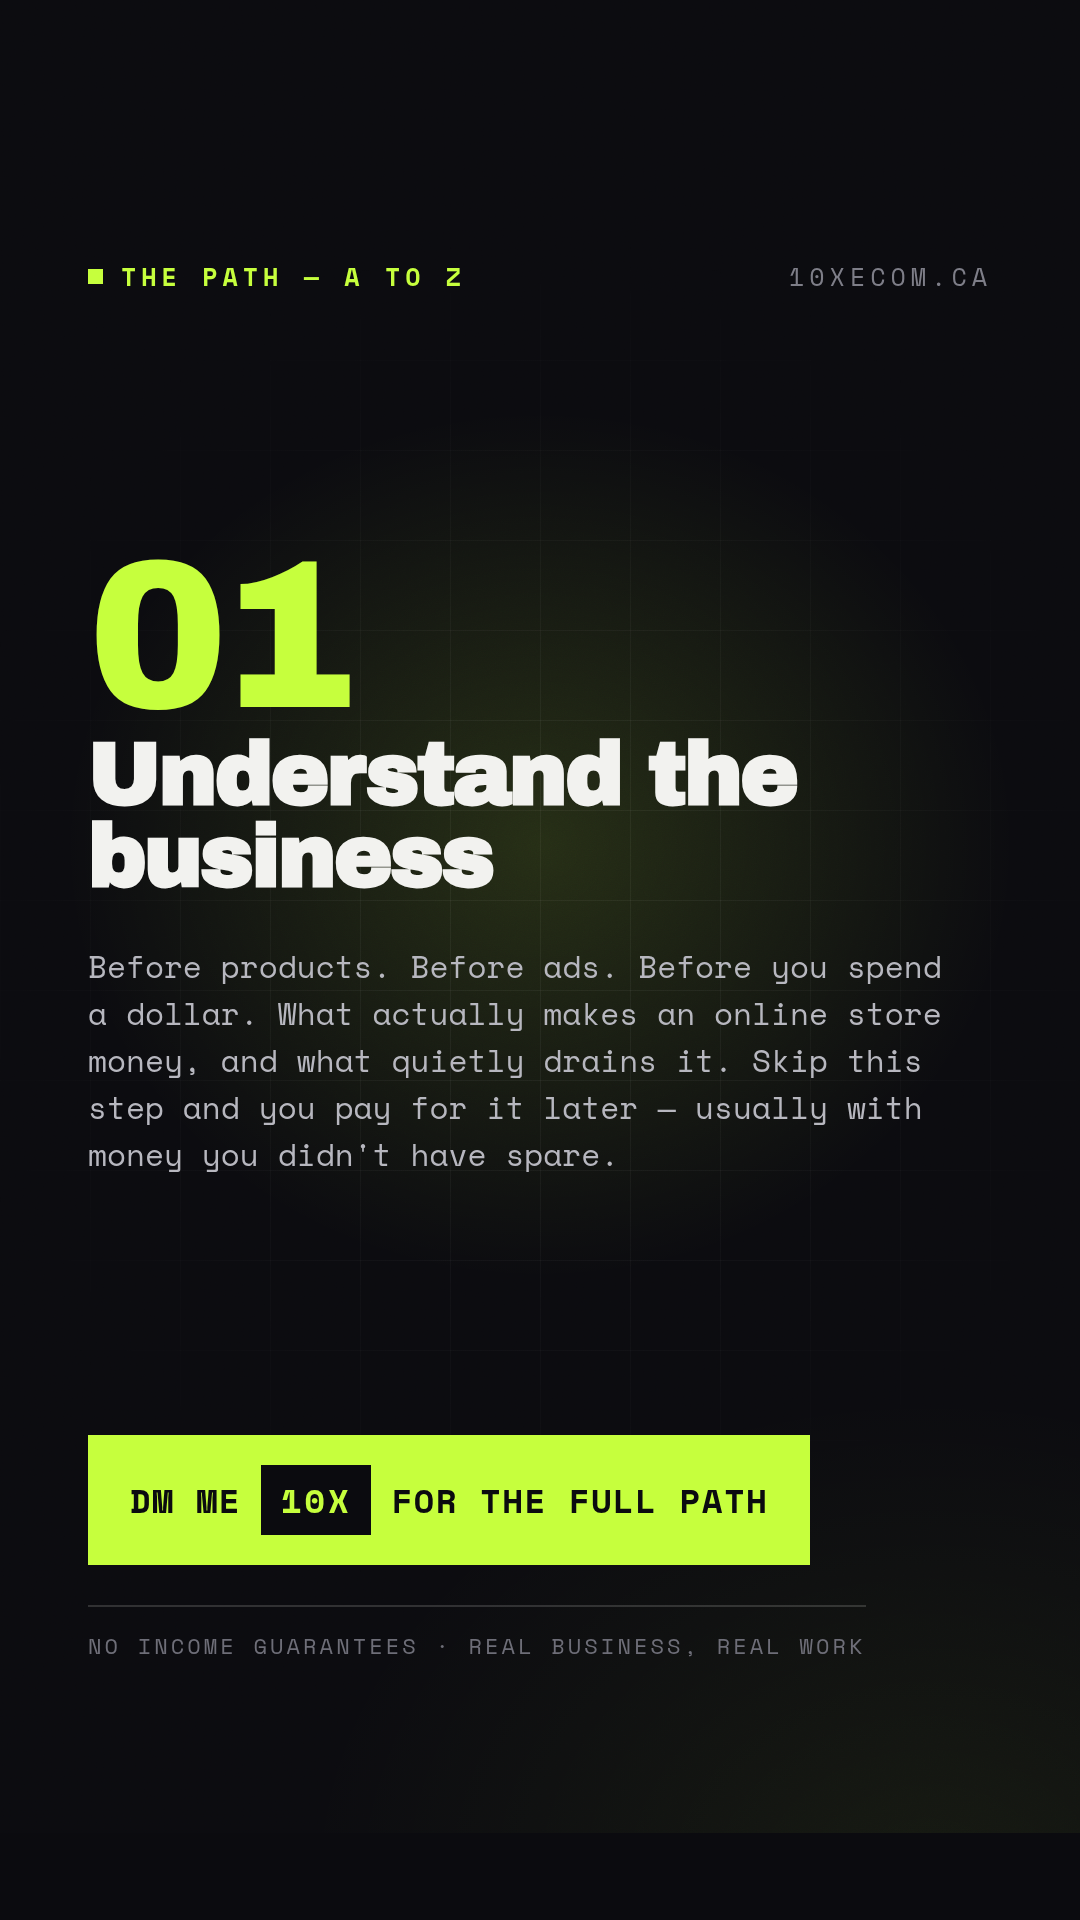
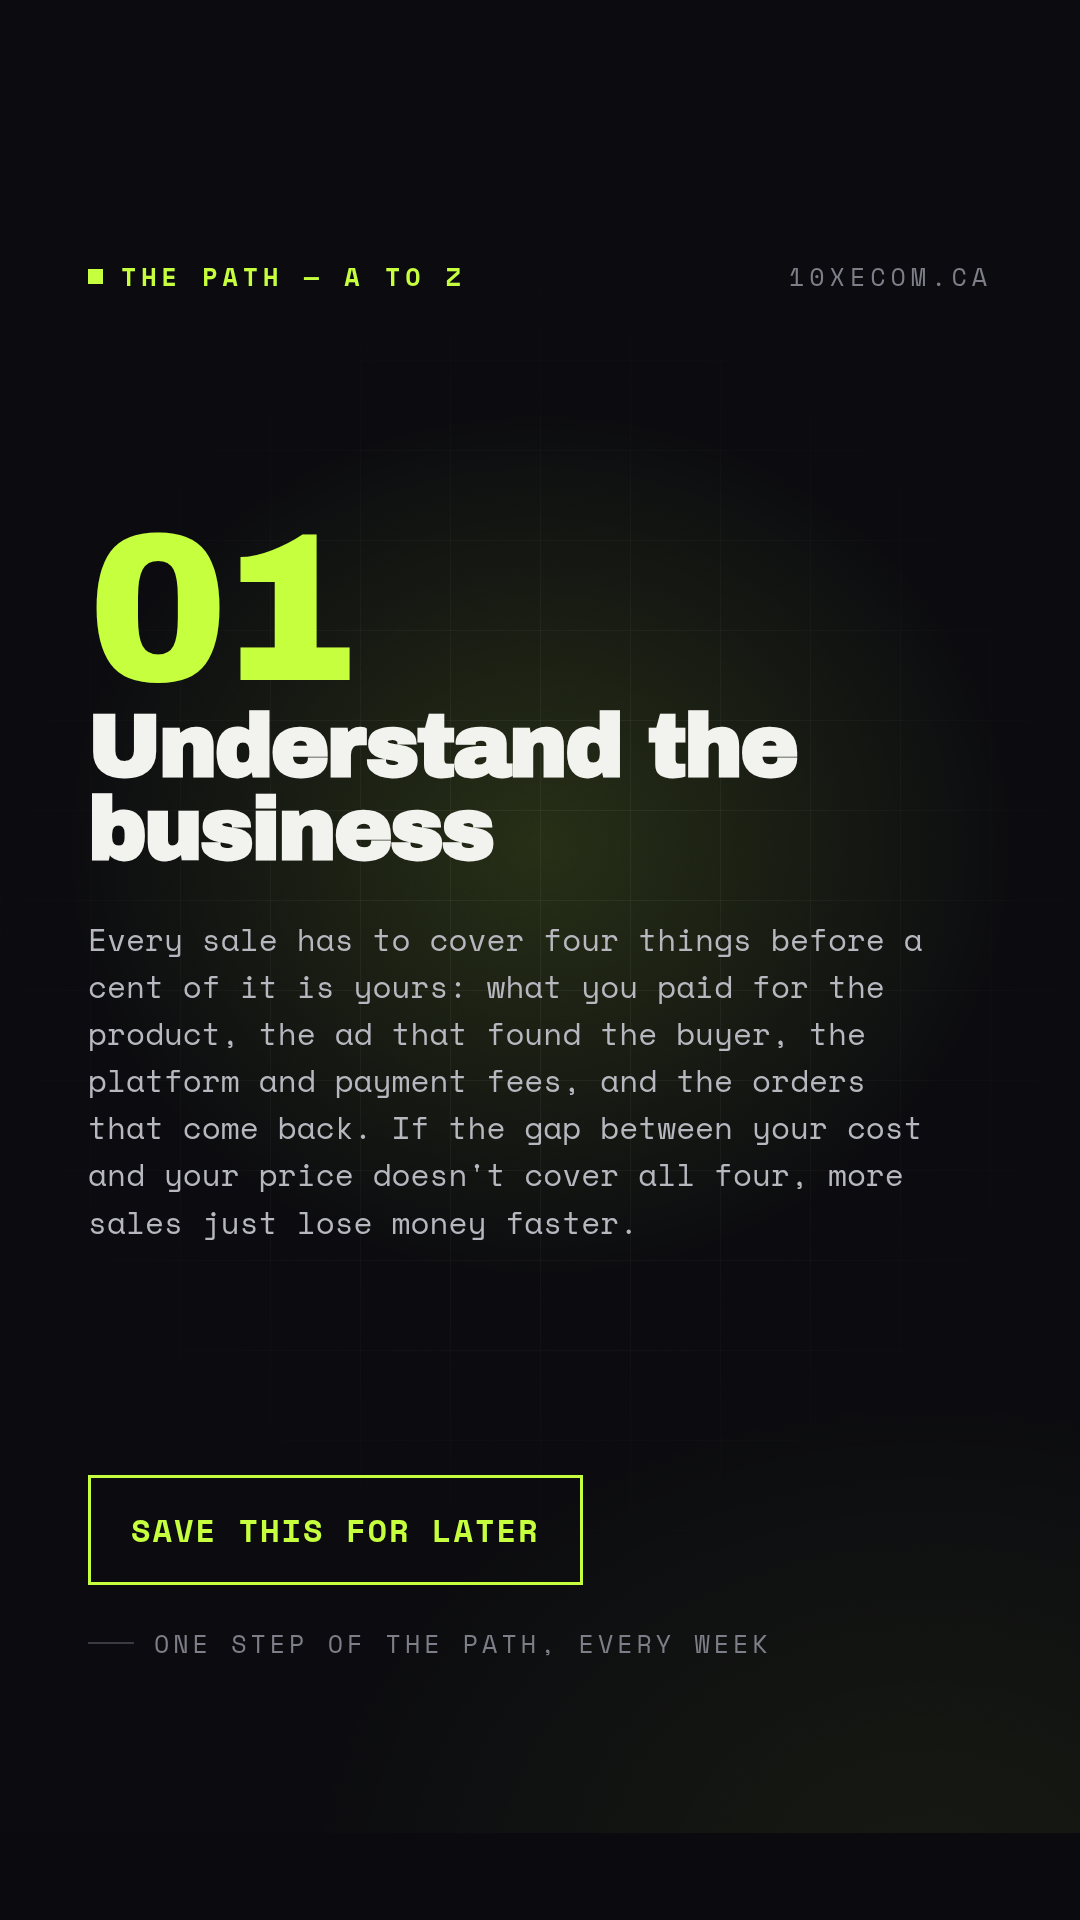
design: make the ongoing posts value-first
Every ongoing format ended in a DM keyword, which is selling to an audience
that does not exist yet. They now give value and ask for nothing.

- Replace the sell CTA with save, share or follow throughout, and introduce an
  outlined button so a value post is visually distinct from the launch post's
  solid one.
- PathStep now teaches the step in full rather than teasing it. A post that
  stops halfway to make you DM is an ad, and this audience can tell.
- Drop the disclaimer from these: it belongs on posts that make a claim.
- Add RedFlags.dc.html, four warning signs in any ecom course, ending on
  "I sell one of these. Hold me to all four." Protection before promotion is
  what earns the follow from an audience this heavily targeted by scams.
- Add HonestCost.dc.html, naming the real money and time cost in categories
  rather than invented figures, so nobody can feel misled later.

Split the canvas's second page into a running order and record the two rules
that keep the series honest: never invent a figure, always teach it completely.

Claude-Session: https://claude.ai/code/session_01JScjDvyAFXuwqeNj6asjp6

Changed region(s): [[0.0611, 0.25, 0.8861, 0.6562], [0.0611, 0.75, 0.7639, 0.875]]

diff --git a/design/10xecom-ig-story/src/RedFlags.dc.html b/design/10xecom-ig-story/src/RedFlags.dc.html
@@ -1,0 +1,57 @@
+<!doctype html>
+<html>
+<head>
+  <meta charset="utf-8">
+  <script src="./support.js"></script>
+</head>
+<body>
+<x-dc>
+<helmet>
+  <style>
+    /*FONTS*/
+/*BASE*/
+    .title { font-family: 'Archivo Black', 'Arial Black', Impact, sans-serif;
+      font-size: 96px; line-height: 0.94; letter-spacing: -0.03em; color: #F2F2EF; margin: 0 0 50px; }
+    .title em { font-style: normal; color: #C6FF3D; }
+    .flags { display: flex; flex-direction: column; gap: 0; margin: 0; padding: 0; list-style: none; }
+    .flags li { display: flex; gap: 26px; align-items: baseline;
+      border-top: 2px solid rgba(242,242,239,0.16); padding: 24px 0;
+      font-size: 30px; line-height: 1.38; color: #D6D6DC; }
+    .flags li:last-child { border-bottom: 2px solid rgba(242,242,239,0.16); }
+    .flags b { color: #C6FF3D; font-weight: 700; font-size: 24px; letter-spacing: 0.12em; }
+    .admit { font-size: 31px; line-height: 1.5; color: #F2F2EF; margin: 40px 0 0; max-width: 860px; }
+    .admit em { font-style: normal; color: #C6FF3D; }
+  </style>
+</helmet>
+<div class="story">
+  <div class="glow"></div>
+  <div class="grid"></div>
+  <div class="noise"></div>
+  <div class="inner">
+
+    <div class="topbar">
+      <div class="tag"><span class="dot"></span><span>Protect yourself</span></div>
+      <div class="topright">10xecom.ca</div>
+    </div>
+
+    <div>
+      <h1 class="title">4 red flags in <em>any</em> ecom course</h1>
+      <ul class="flags">
+        <li><b>01</b><span>It leads with a screenshot of earnings.</span></li>
+        <li><b>02</b><span>It promises a number, or a date you'll hit it.</span></li>
+        <li><b>03</b><span>It pressures you to decide today.</span></li>
+        <li><b>04</b><span>It can't tell you what week one actually looks like.</span></li>
+      </ul>
+      <p class="admit">I sell one of these. <em>Hold me to all four.</em></p>
+    </div>
+
+    <div class="cta">
+      <div class="act"><span>Save this before you buy anything</span></div>
+      <div class="foot"><span class="bar"></span><span>Costs you nothing. Might save you plenty.</span></div>
+    </div>
+
+  </div>
+</div>
+</x-dc>
+</body>
+</html>

diff --git a/design/10xecom-ig-story/src/HonestCost.dc.html b/design/10xecom-ig-story/src/HonestCost.dc.html
@@ -1,0 +1,55 @@
+<!doctype html>
+<html>
+<head>
+  <meta charset="utf-8">
+  <script src="./support.js"></script>
+</head>
+<body>
+<x-dc>
+<helmet>
+  <style>
+    /*FONTS*/
+/*BASE*/
+    .title { font-family: 'Archivo Black', 'Arial Black', Impact, sans-serif;
+      font-size: 100px; line-height: 0.92; letter-spacing: -0.03em; color: #F2F2EF; margin: 0 0 52px; }
+    .title em { font-style: normal; color: #C6FF3D; }
+    .block { border-top: 3px solid rgba(242,242,239,0.18); padding: 26px 0 30px; }
+    .block:last-of-type { border-bottom: 3px solid rgba(242,242,239,0.18); }
+    .btitle { font-family: 'Archivo Black', 'Arial Black', Impact, sans-serif;
+      font-size: 44px; line-height: 1; letter-spacing: -0.02em; color: #C6FF3D; margin: 0 0 16px; }
+    .btext { font-size: 29px; line-height: 1.48; color: #B7B7BF; margin: 0; max-width: 860px; text-wrap: pretty; }
+  </style>
+</helmet>
+<div class="story">
+  <div class="glow"></div>
+  <div class="grid"></div>
+  <div class="noise"></div>
+  <div class="inner">
+
+    <div class="topbar">
+      <div class="tag"><span class="dot"></span><span>Honest numbers</span></div>
+      <div class="topright">10xecom.ca</div>
+    </div>
+
+    <div>
+      <h1 class="title">What this <em>actually</em> costs you</h1>
+      <div class="block">
+        <p class="btitle">Money</p>
+        <p class="btext">A domain. A store platform every month. Samples of whatever you sell. A small budget to test ads with. Anyone who quotes you one total is guessing — it depends entirely on what you sell.</p>
+      </div>
+      <div class="block">
+        <p class="btitle">Time</p>
+        <p class="btext">Evenings and days off. Not four-hour work weeks. If someone promises you passive income in month one, they are selling you something.</p>
+      </div>
+    </div>
+
+    <div class="cta">
+      <div class="act"><span>Save this</span></div>
+      <div class="foot"><span class="bar"></span><span>I'd rather you know before you start</span></div>
+    </div>
+
+  </div>
+</div>
+</x-dc>
+</body>
+</html>

diff --git a/design/10xecom-ig-story/src/PathStep.dc.html b/design/10xecom-ig-story/src/PathStep.dc.html
@@ -31,16 +31,12 @@
     <div>
       <p class="num">01</p>
       <h1 class="steptitle">Understand the business</h1>
-      <p class="body">Before products. Before ads. Before you spend a dollar. What actually makes an online store money, and what quietly drains it. Skip this step and you pay for it later — usually with money you didn't have spare.</p>
+      <p class="body">Every sale has to cover four things before a cent of it is yours: what you paid for the product, the ad that found the buyer, the platform and payment fees, and the orders that come back. If the gap between your cost and your price doesn't cover all four, more sales just lose money faster.</p>
     </div>
 
     <div class="cta">
-      <div class="dm">
-        <span>DM me</span>
-        <span class="kw">10X</span>
-        <span>for the full path</span>
-      </div>
-      <p class="legal">No income guarantees · Real business, real work</p>
+      <div class="act"><span>Save this for later</span></div>
+      <div class="foot"><span class="bar"></span><span>One step of the path, every week</span></div>
     </div>
 
   </div>

diff --git a/design/10xecom-ig-story/src/_base.css b/design/10xecom-ig-story/src/_base.css
@@ -55,3 +55,8 @@
     .label { display: flex; align-items: center; gap: 16px;
       font-size: 26px; font-weight: 700; letter-spacing: 0.20em; text-transform: uppercase; margin: 0 0 20px; }
     .label i { display: block; width: 34px; height: 3px; }
+
+    .act { display: inline-flex; align-items: center; gap: 20px; align-self: flex-start;
+      border: 3px solid #C6FF3D; color: #C6FF3D; background: transparent;
+      padding: 28px 40px; font-size: 32px; font-weight: 700;
+      letter-spacing: 0.06em; text-transform: uppercase; }

diff --git a/design/10xecom-ig-story/src/Myth.dc.html b/design/10xecom-ig-story/src/Myth.dc.html
@@ -43,12 +43,8 @@
     </div>
 
     <div class="cta">
-      <div class="dm">
-        <span>DM me</span>
-        <span class="kw">10X</span>
-        <span>to talk</span>
-      </div>
-      <p class="legal">No income guarantees · Real business, real work</p>
+      <div class="act"><span>Send this to someone on nights</span></div>
+      <div class="foot"><span class="bar"></span><span>A myth a week — follow along</span></div>
     </div>
 
   </div>

diff --git a/design/10xecom-ig-story/src/RealTalk.dc.html b/design/10xecom-ig-story/src/RealTalk.dc.html
@@ -39,12 +39,8 @@
     </div>
 
     <div class="cta">
-      <div class="dm">
-        <span>DM me</span>
-        <span class="kw">10X</span>
-        <span>to talk</span>
-      </div>
-      <p class="legal">No income guarantees · Real business, real work</p>
+      <div class="act"><span>Follow for the next one</span></div>
+      <div class="foot"><span class="bar"></span><span>No pitch. Just what I learned.</span></div>
     </div>
 
   </div>

diff --git a/design/10xecom-ig-story/README.md b/design/10xecom-ig-story/README.md
@@ -80,24 +80,27 @@ Layout keeps the top and bottom 250px clear of content for Instagram's profile
 row and reply bar. The gap above each CTA is deliberate room for a poll or
 question sticker.
 
-## Ongoing formats (after the reveal)
+## Value-first posts
 
-Three repeatable templates on the canvas's second page. Refill them; don't
-redesign them — the consistency is what makes the account look like a brand.
+Nothing on the canvas's second page sells anything: no DM keyword, no offer,
+no price. Every post closes on SAVE, SHARE or FOLLOW, the three actions that
+build an audience. An **outlined** button marks a value post; the **solid**
+one is reserved for the launch post.
 
-| Format | File | Job |
+Run them in this order:
+
+| # | File | Job |
 | --- | --- | --- |
-| The Path | `src/PathStep.dc.html` | One curriculum step per post, numbered |
-| Myth / Truth | `src/Myth.dc.html` | Kills one objection per post |
-| Real Talk | `src/RealTalk.dc.html` | The founder's own story — trust |
+| 1 | `src/RedFlags.dc.html` | Protection, not promotion — earns the follow |
+| 2 | `src/HonestCost.dc.html` | Sets expectations before anyone feels misled |
+| 3 | `src/PathStep.dc.html` | Teaches one curriculum step, in full |
+| 4 | `src/Myth.dc.html` | Kills one objection per post |
+| 5 | `src/RealTalk.dc.html` | Founder story — use sparingly |
 
-Swap the number, title and paragraph on The Path; both lines on Myth / Truth;
-the quote and paragraph on Real Talk. Suggested rotation: Path, Path, Myth,
-Path, Real Talk — teaching carries the week, trust posts punctuate it.
+`PathStep` and `Myth` are templates: swap the number, title and paragraph, or
+both lines, and post again. `RealTalk` loses force if it becomes weekly.
 
-Every format closes on the same DM keyword and the same disclaimer. For an
-audience this heavily targeted by scams, a standing "no income guarantees"
-reads as a signature rather than a legal chore.
-
-Never invent a figure in a myth line, and never put a number in a Real Talk
-quote — the whole position is that this business does not promise one.
+Two rules keep this honest. **Never invent a figure** — not in a myth, not in
+a cost, not in a quote; the whole position is that this business does not
+promise a number. And **teach the thing completely**: a value post that stops
+halfway to make you DM is an ad, and this audience can tell.
